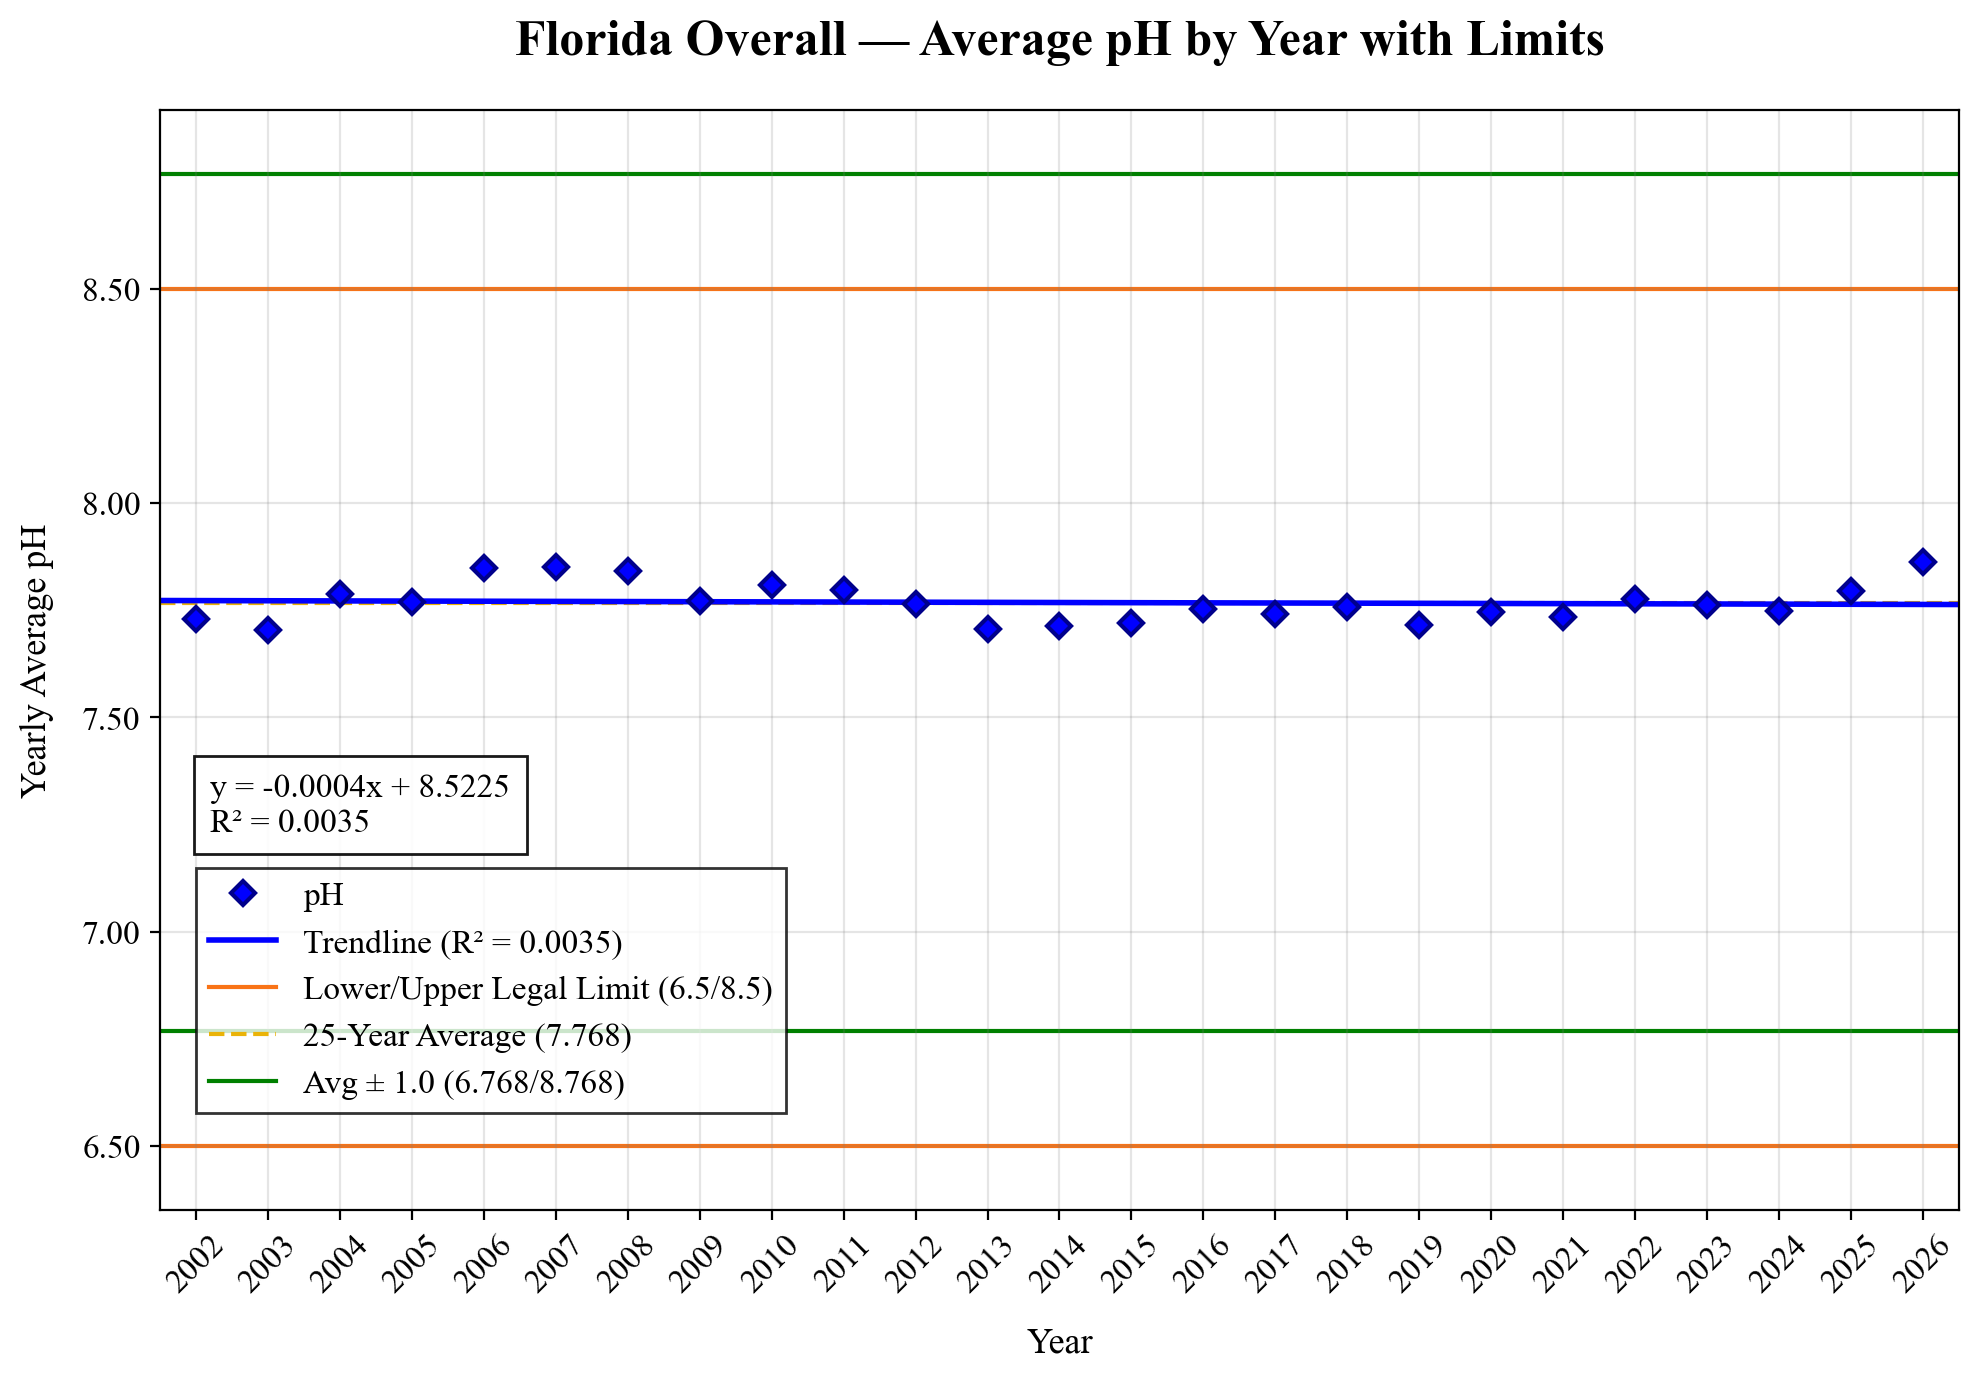
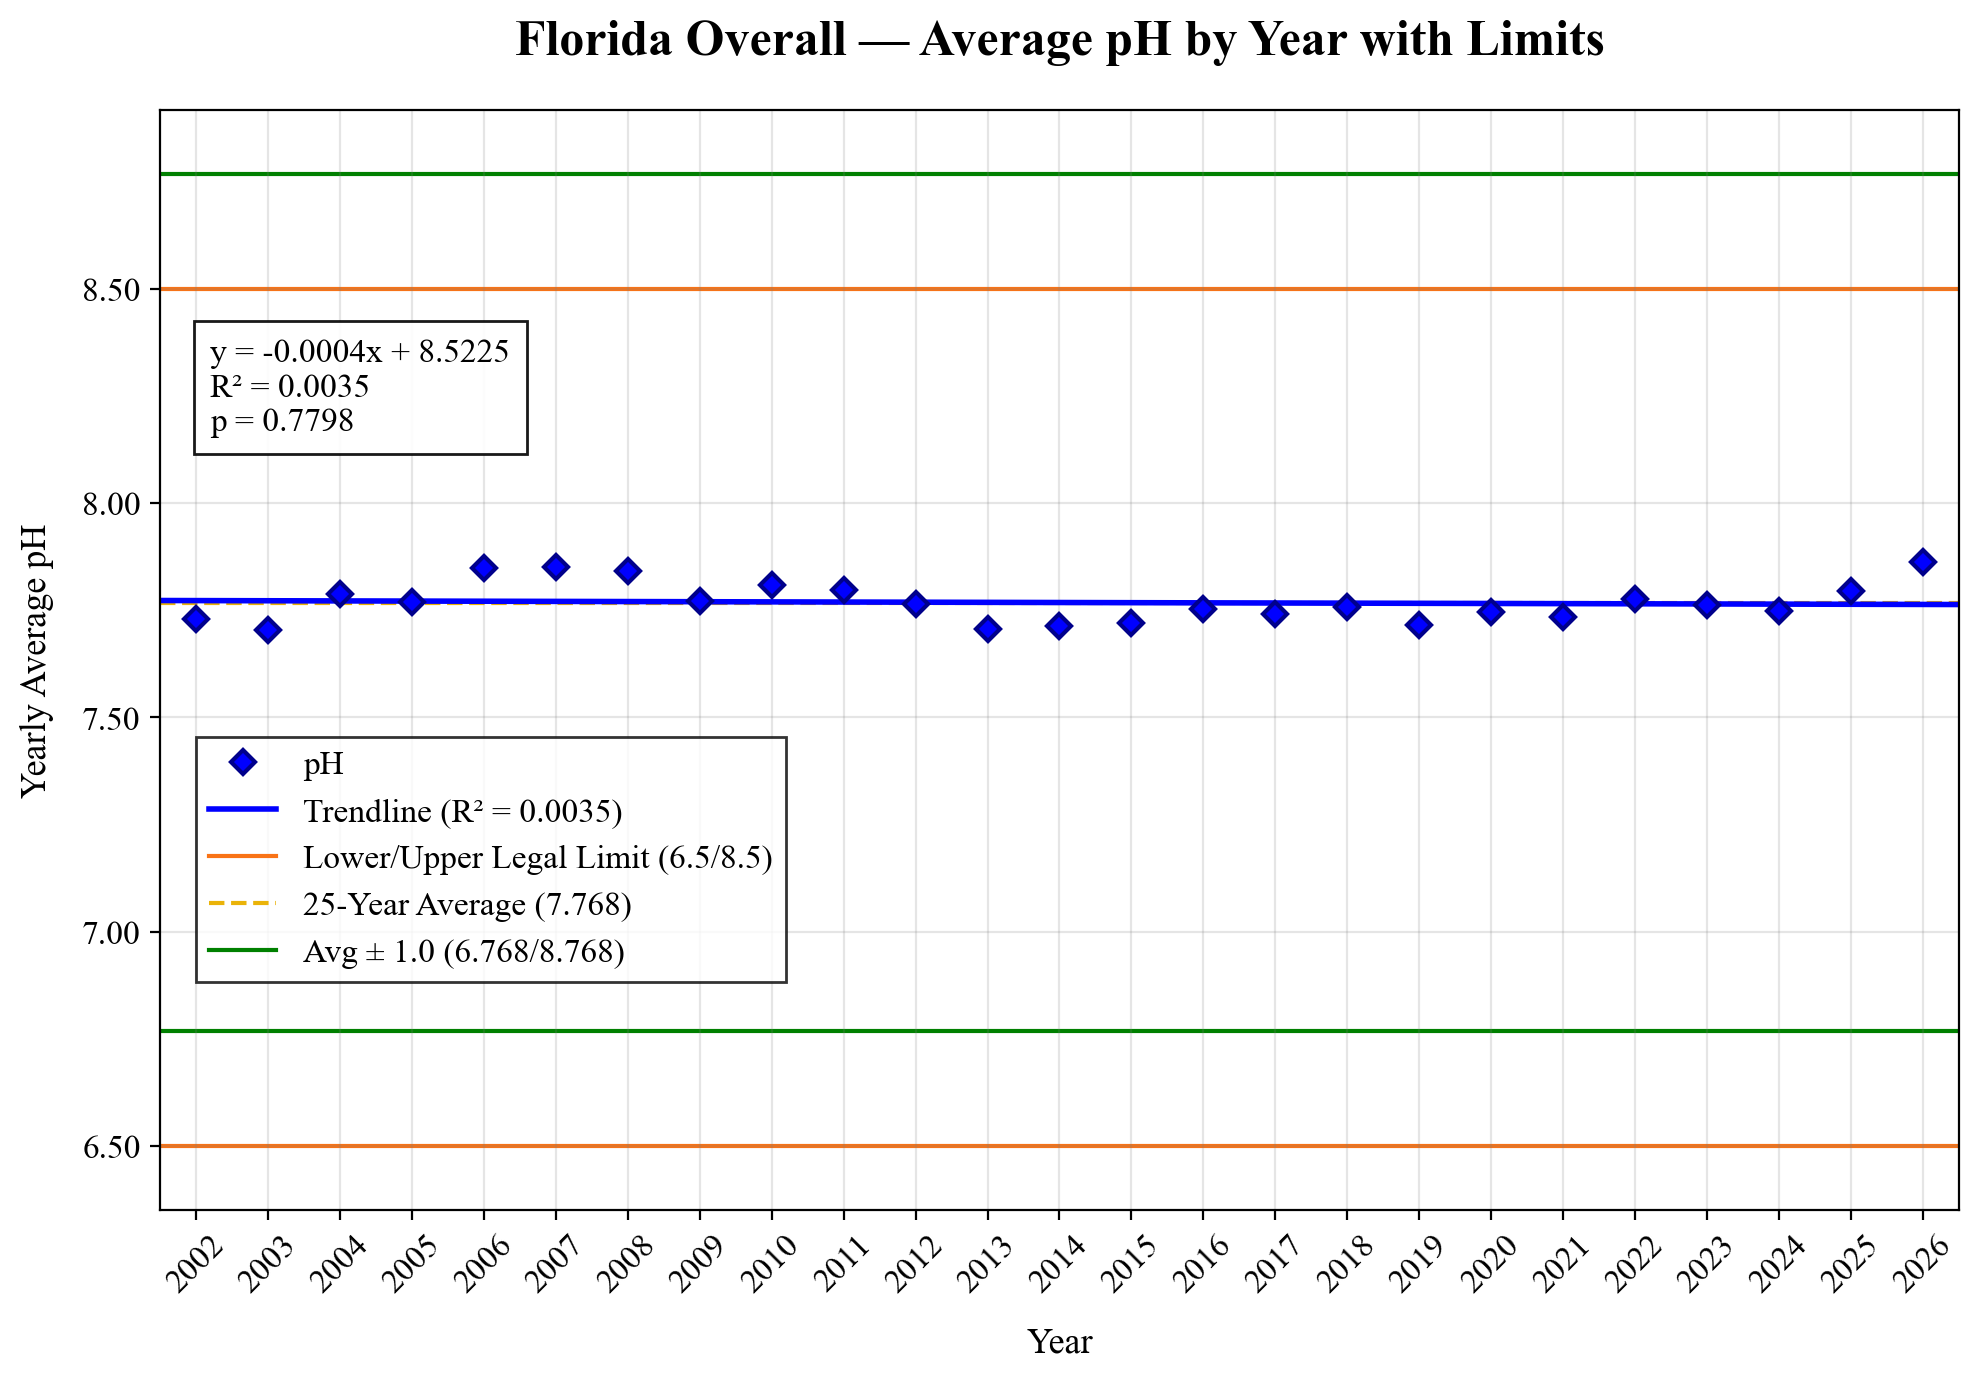
Update Florida overall trend graph with 1.0 tolerance and balanced padding layout

diff --git a/app.js b/app.js
@@ -313,9 +313,9 @@ function handleMarkerClick(siteName, isState, stats) {
         ? "Statewide aggregated visualization suite."
         : "Station-specific visualization suite.";
         
-    trendGraph.src = `assets/${safeName}_trend.png?v=6`;
-    boxGraph.src = `assets/${safeName}_box.png?v=6`;
-    barGraph.src = `assets/${safeName}_bar.png?v=6`;
+    trendGraph.src = `assets/${safeName}_trend.png?v=7`;
+    boxGraph.src = `assets/${safeName}_box.png?v=7`;
+    barGraph.src = `assets/${safeName}_bar.png?v=7`;
     
     if (stats.equation && stats.r2 && stats.equation !== "N/A") {
         trendStats.innerHTML = `${stats.equation} &nbsp;&nbsp;|&nbsp;&nbsp; ${stats.r2} &nbsp;&nbsp;|&nbsp;&nbsp; ${stats.p}`;

diff --git a/index.html b/index.html
@@ -67,6 +67,6 @@
     <script src="https://unpkg.com/leaflet@1.9.4/dist/leaflet.js" integrity="sha256-20nQCchB9co0qIjJZRGuk2/Z9VM+kNiyxNV1lvTlZBo=" crossorigin=""></script>
     
     <!-- App Logic -->
-    <script src="app.js?v=19"></script>
+    <script src="app.js?v=20"></script>
 </body>
 </html>
